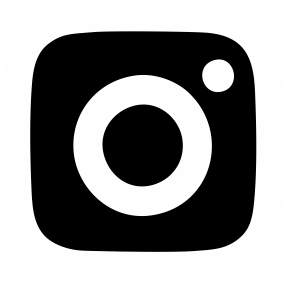
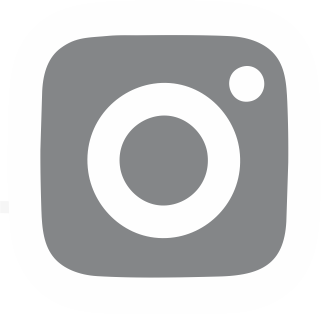
Ajustar Posicionamento dos icones do footer e correção de sublinhado nas âncoras da nav.

diff --git a/HTML/index.html b/HTML/index.html
@@ -25,12 +25,16 @@
     </header>
     <section class="home1">
         <div>
-            <h1>Um novo jeito de fazer entregas</h1>
-            <p>Tenha clientes satisfeitos com as suas melhores receitas, no tempo certo.</p>
+            <h1>UM NOVO JEITO<br/>
+                DE FAZER ENTREGAS <img src="../img/logomoto.png" alt="logofreety" style="float:left"></h1> 
+            
+            <p>Tenha clientes satisfeitos <br/> 
+                com as suas melhores receitas,<br/> 
+                no tempo certo. <a href="#"><img id="googleplay" src="../img/googleplay.png" alt="googleplay"></a><a><img id="appstore" src="../img/appstore.png" alt="appstore"></a></p>
         </div>
         <div>
             <a href="#"><button name="soliciteEntregador">Solicite um entregador</button></a>
-        </div>
+    
     </section>
     <section class="home2">
         <div>
@@ -105,7 +109,7 @@
     <section class="home4">
         <div>
             <h2>
-                Baixe hoje o applicativo e comece a fazer entregas de uma maneira rápida e simples.							
+                Baixe hoje o aplicativo e comece a fazer entregas de uma maneira rápida e simples.							
             </h2>
         </div>
     </section>
@@ -130,9 +134,15 @@
         </div>
         <div>
             <h4>Baixe o App</h4>
-            <a href="#">IOS</a>
-            <a href="#">Android</a>
+            <a href="#"><img id="apple" src="../img/apple.png"></a>
+            <a href="#"><img id="android" src="../img/android.png"></a>
+        </div>
+        <div>
+            <h4>Social Media</h4>
+            <a href="#"><img id="face" src="../img/face.png"></a>
+            <a href="#"><img id="insta" src="../img/insta.png"></a>
+            <a href="#"><img id="linkedin" src="../img/linkedin.png"></a>
         </div>
     </section>
-</body>
+   </body>
 </html>

diff --git a/estilo.css b/estilo.css
@@ -34,32 +34,62 @@ nav a{
 
 nav a:hover{
     border-bottom: 2px solid white;
+    
 }
 
 .home1{
-    background: url('img/home1.png');
+    background: url('img/home1.png');    
     background-size: 100%;
     height: 340px;
     padding-top: 400px;
 }
 
-.home1 h1, p, button{
+.home1 p{
     margin-left: 100px;
-    color: #1CA3FC;
-}
+    margin-top: 20px;
+    color: #000069;
+    font-size: 25px;
+}   
+
+.home1 h1{
+    margin-left: 100px;
+    color: #000069;
+    text-transform: uppercase;
+    font-size: 35px;
+}   
 
 .home1 button{
+    margin-top: 25px;
     background: transparent;
-    border: 2px solid #1CA3FC;
+    border: 2px solid #000069;
     padding: 5px 10px;
     text-transform: uppercase;
     font-weight: 800;
     border-radius: 5px;
-}
+    margin-left: 100px;
+    color: #000069;
+    font-size: 15px;
+  }
 
 .home1 button:hover{
-    background-color: #1CA3FC; 
+    background-color: #000069; 
     color: white; 
+}
+
+.home1 img{
+    width: 220px;
+    position: absolute;
+    margin-left: 50px;
+    }
+
+#googleplay{
+    width: 150px;
+    margin-left: 22%;
+}
+
+#appstore{
+    width: 150px;
+    margin-left: 34%;
 }
 
 .home2{
@@ -107,7 +137,7 @@ nav a:hover{
 .footer{
     background-color: dimgray;
     width: 100%;
-    height: 300px;
+    height: 180px;
     display: flex;
     display: column;
     justify-content: space-evenly;
@@ -118,4 +148,12 @@ nav a:hover{
     text-decoration: none;
     display: flex;
     display: column;
+}
+
+.footer img{
+    width: 30px;
+}
+
+#face{
+    width: 20px;
 }
